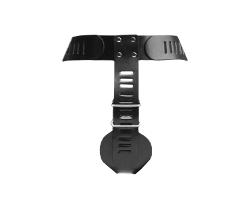
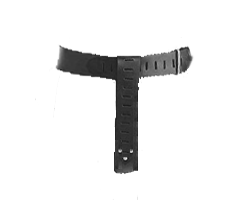
Changed LeatherChastityBelt back
-Reverted LeatherChastityBelt back to how it was

-Added new Sleek Leather Chastity Belt

Changed region(s): [[0.224, 0.15, 0.784, 0.87]]

diff --git a/BondageClub/Assets/Female3DCG/Female3DCG.js b/BondageClub/Assets/Female3DCG/Female3DCG.js
@@ -714,6 +714,7 @@ var AssetFemale3DCG = [
 		Asset: [
 			{ Name: "StraponPanties", DefaultColor: "#505050", Effect: ["Chaste"], Block: ["ItemVulva", "ItemButt", "ItemVulvaPiercings"], HideItem: ["ItemVulvaVibratingDildo", "ItemVulvaClitSuctionCup", "ItemVulvaInflatableVibeDildo"], Value: -1, Prerequisite: "AccessVulva", Time: 15 },
 			{ Name: "LeatherChastityBelt", Effect: ["Chaste"], Block: ["ItemVulva", "ItemButt", "ItemVulvaPiercings"], HideItem: ["ItemVulvaVibratingDildo", "ItemVulvaClitSuctionCup", "ItemVulvaInflatableVibeDildo"], Value: 30, Prerequisite: "AccessVulva", AllowLock: true, Difficulty: 8, Time: 20, RemoveTime: 10, ExpressionTrigger: [{ Group: "Eyebrows", Name: "Soft", Timer: 10 }] },
+			{ Name: "SleekLeatherChastityBelt", Effect: ["Chaste"], Block: ["ItemVulva", "ItemButt", "ItemVulvaPiercings"], HideItem: ["ItemVulvaVibratingDildo", "ItemVulvaClitSuctionCup", "ItemVulvaInflatableVibeDildo"], Value: 45, Prerequisite: "AccessVulva", AllowLock: true, Difficulty: 11, Time: 20, RemoveTime: 10, ExpressionTrigger: [{ Group: "Eyebrows", Name: "Soft", Timer: 10 }] },
 			{ Name: "StuddedChastityBelt", Effect: ["Chaste"], Block: ["ItemVulva", "ItemButt", "ItemVulvaPiercings"], HideItem: ["ItemVulvaVibratingDildo", "ItemVulvaClitSuctionCup", "ItemVulvaInflatableVibeDildo"], Value: 60, Prerequisite: "AccessVulva", AllowLock: true, Difficulty: 14, Time: 20, RemoveTime: 10, ExpressionTrigger: [{ Group: "Eyebrows", Name: "Soft", Timer: 10 }] },
 			{ Name: "MetalChastityBelt", Effect: ["Chaste"], Block: ["ItemVulva", "ItemButt", "ItemVulvaPiercings"], HideItem: ["ItemVulvaVibratingDildo", "ItemVulvaClitSuctionCup", "ItemVulvaInflatableVibeDildo"], Value: 100, Prerequisite: "AccessVulva", AllowLock: true, Difficulty: 20, Time: 20, RemoveTime: 10, ExpressionTrigger: [{ Group: "Eyebrows", Name: "Soft", Timer: 10 }] },
 			{ Name: "PolishedChastityBelt", Effect: ["Chaste"], Block: ["ItemVulva", "ItemButt", "ItemVulvaPiercings"], HideItem: ["ItemVulvaVibratingDildo", "ItemVulvaClitSuctionCup", "ItemVulvaInflatableVibeDildo"], Value: 150, Prerequisite: "AccessVulva", AllowLock: true, Difficulty: 30, Time: 20, RemoveTime: 10, ExpressionTrigger: [{ Group: "Eyebrows", Name: "Soft", Timer: 10 }] },
